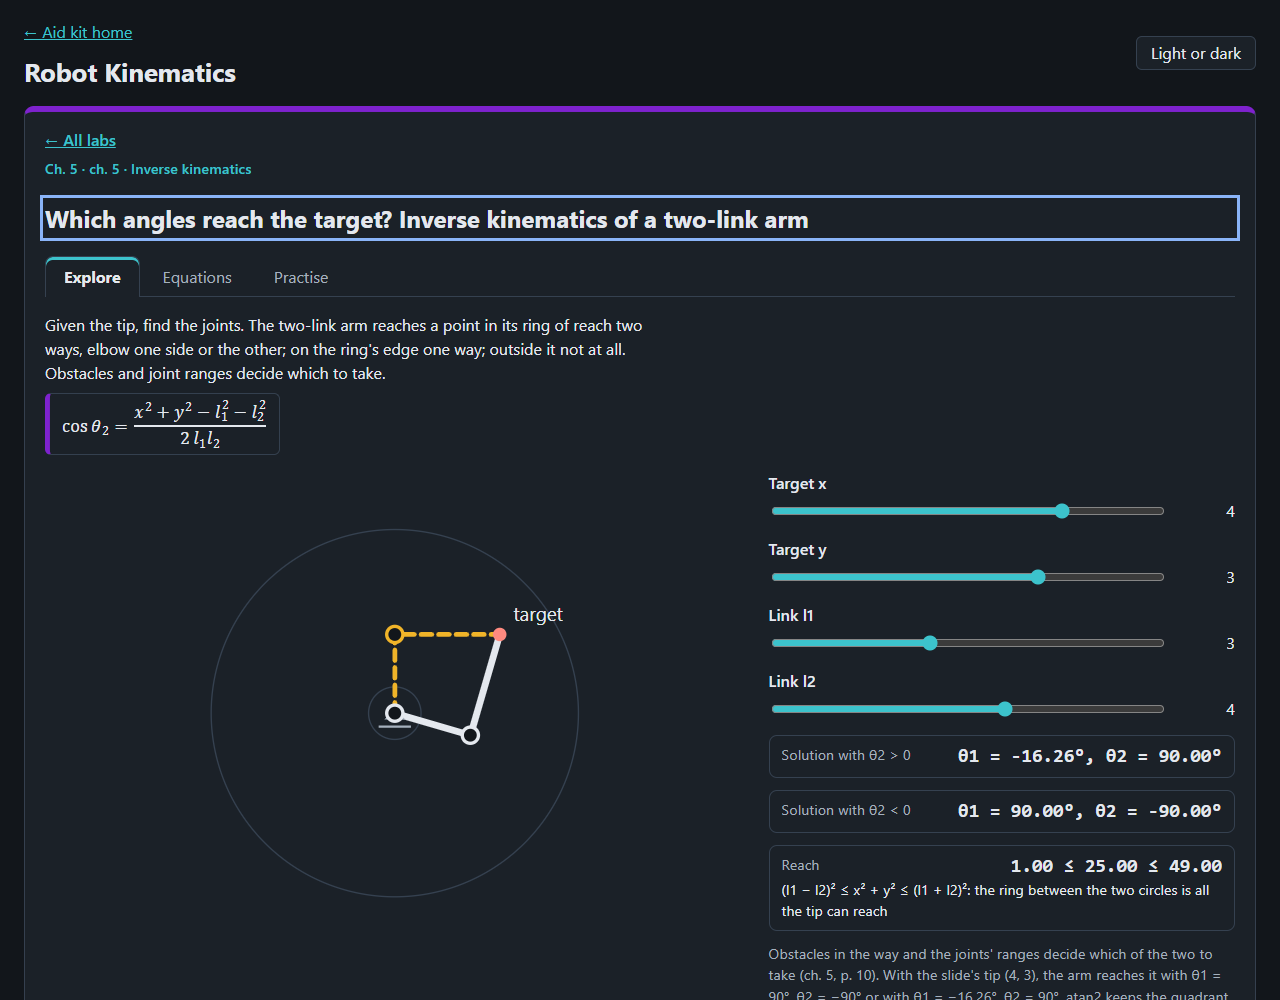
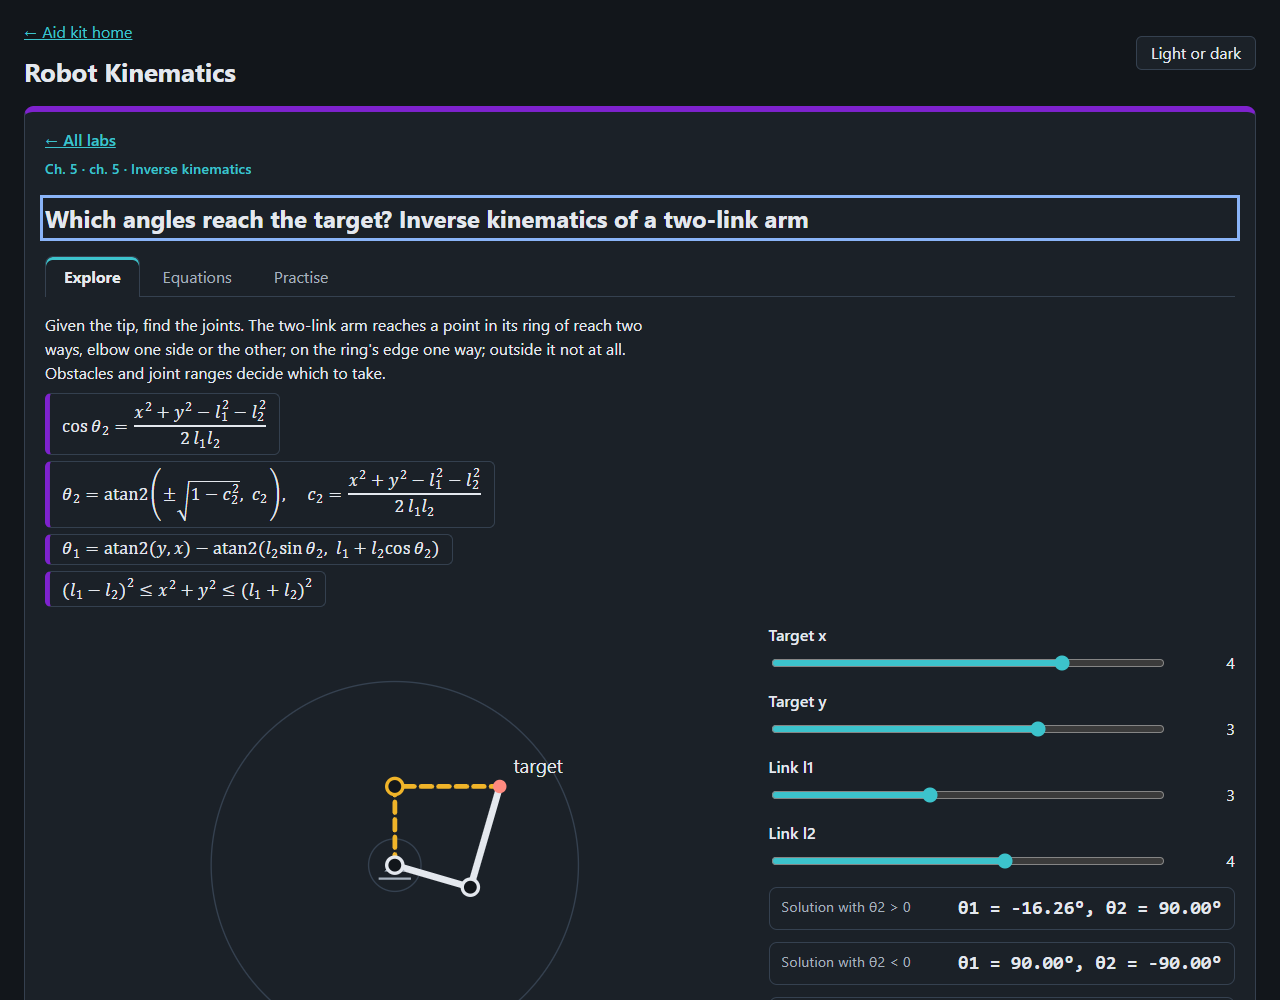
Record the stepped IRB labs' README GIFs

diff --git a/robotics-lab/README.md b/robotics-lab/README.md
@@ -49,6 +49,17 @@ hand and say so.
 - **The slides cut numbers after three decimals** instead of rounding: ch. 2, p. 38 prints 4.693 for 4.6937, 0.104 for
   cos 84° = 0.10453 and 0.994 for sin 84° = 0.99452.
 
+## The stepped exercises
+
+The four stepped labs play each exercise step by step, with its MATLAB and Python beside it.
+
+| | |
+|---|---|
+| <picture><source media="(prefers-color-scheme: dark)" srcset="docs/dhsteps-dark.gif"><img src="docs/dhsteps-light.gif" alt="The RRT robot's DH table filling row by row as each frame appears on the arm" width="360"></picture> | <picture><source media="(prefers-color-scheme: dark)" srcset="docs/irbsteps-dark.gif"><img src="docs/irbsteps-light.gif" alt="The IRB 120 at the student's joint values beside the lab's chain" width="360"></picture> |
+| <picture><source media="(prefers-color-scheme: dark)" srcset="docs/jacsteps-dark.gif"><img src="docs/jacsteps-light.gif" alt="The Jacobian's columns drawn as arrows at the tip of a two-link arm" width="360"></picture> | <picture><source media="(prefers-color-scheme: dark)" srcset="docs/iksteps-dark.gif"><img src="docs/iksteps-light.gif" alt="Inverse kinematics of the two-link arm swinging to its target, elbow up and elbow down" width="360"></picture> |
+
+Recorded with `node scripts/record-steps.mjs` (see its header for the server it needs).
+
 ## Source notes for the stepped exercises (7 Nov 2026)
 
 - **The student's DH table agrees with this lab's.** His seven rows (report slide 4; script) split the base's 290 mm
